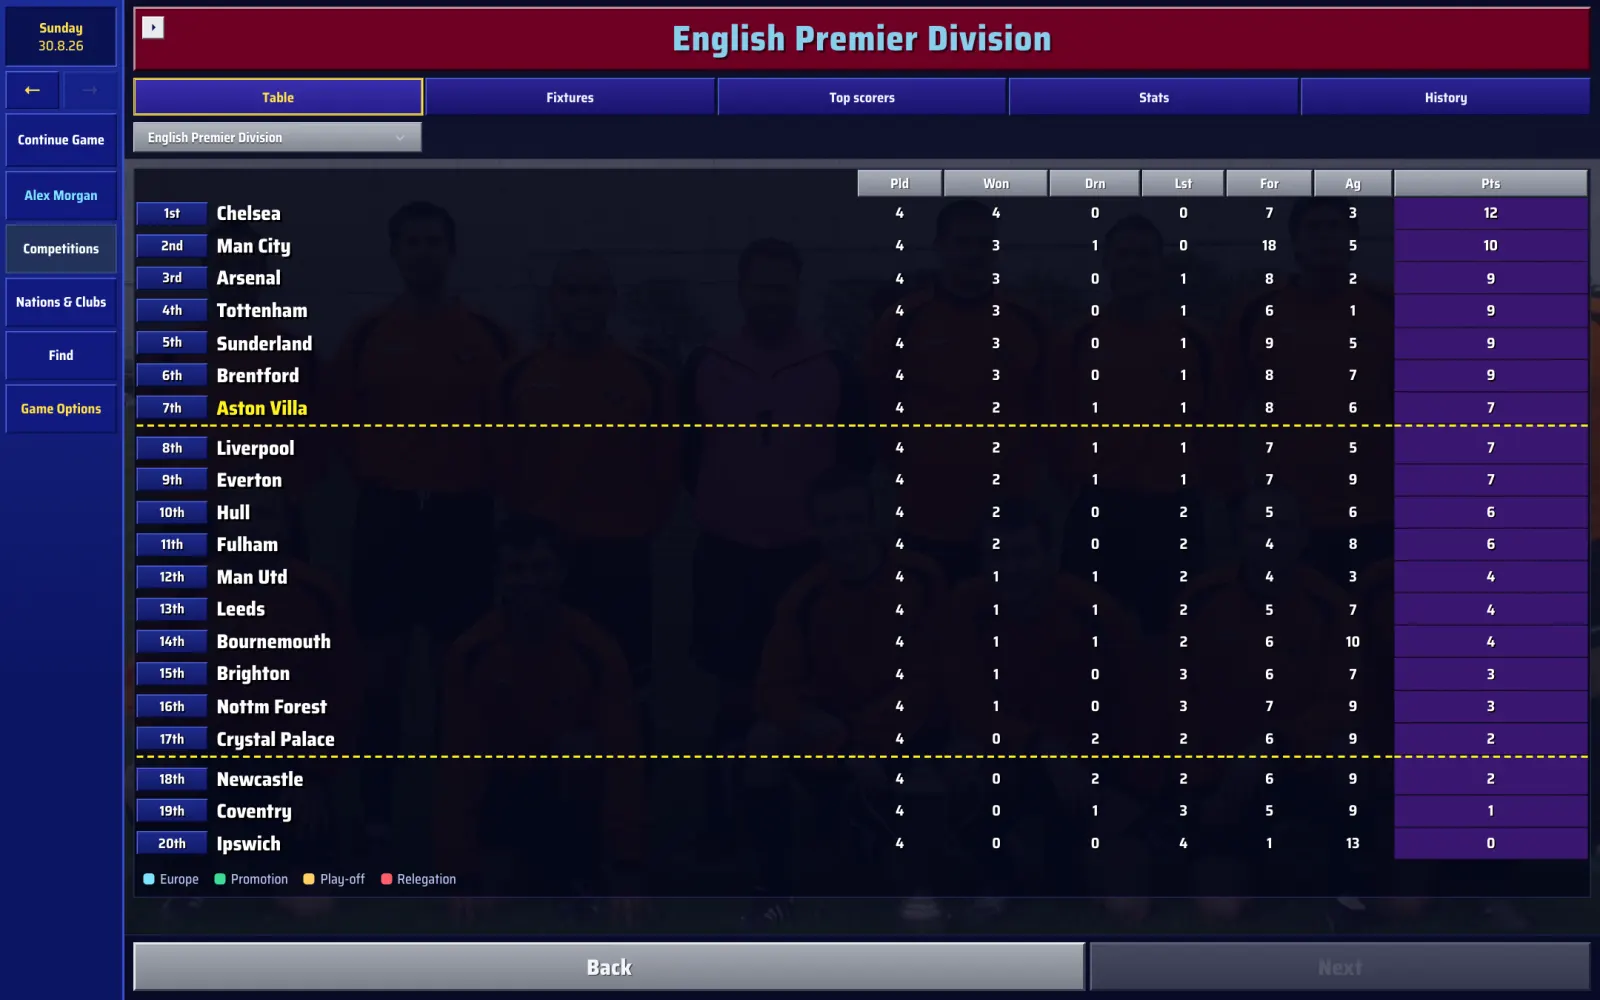
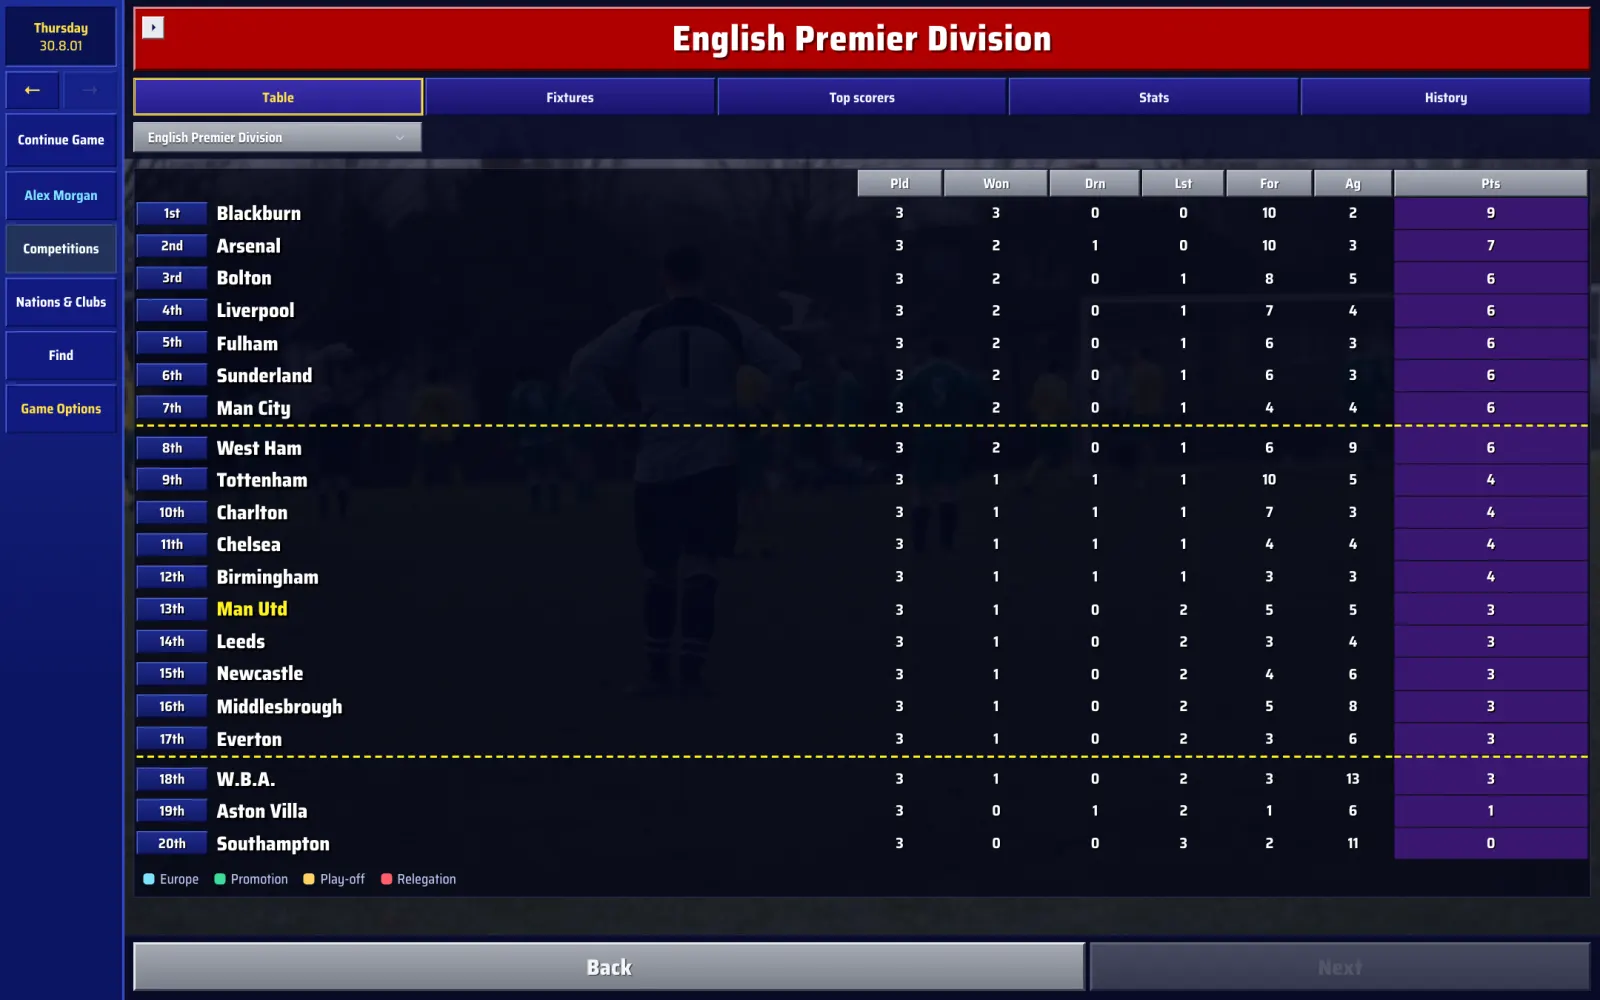
Landingssiden: klassisk tema med 2001/02-databasen og i heroen
- De klassiske skærmbilleder (To udseender og Se det selv) bruger nu den
  originale 2001/02-database med Manchester United og David Beckhams
  profil i stedet for 2026/27 med Aston Villa.
- Heroen ("The legend is back. Now in your browser.") viser den klassiske
  ligatabel fra 2001/02 bag det moderne kamprapport-billede (i stedet for
  den animerede bane).

diff --git a/src/ui/Landing.tsx b/src/ui/Landing.tsx
@@ -107,28 +107,6 @@ export function Frame({ src, alt, className = '', onOpen }: { src: string; alt: 
   );
 }
 
-/** Animeret bane i hero: spillere der bevæger sig og en bold der skydes i mål */
-function Pitch() {
-  return (
-    <svg className="lp-pitch" viewBox="0 0 400 260" aria-hidden="true">
-      <defs>
-        <linearGradient id="lpgrass" x1="0" x2="1">
-          <stop offset="0" stopColor="#0f5132" /><stop offset="1" stopColor="#14703f" />
-        </linearGradient>
-      </defs>
-      <rect x="0" y="0" width="400" height="260" rx="14" fill="url(#lpgrass)" />
-      {[...Array(8)].map((_, i) => <rect key={i} x={i * 50} y="0" width="25" height="260" fill="rgba(255,255,255,0.035)" />)}
-      <g stroke="rgba(255,255,255,0.55)" strokeWidth="1.6" fill="none">
-        <rect x="10" y="10" width="380" height="240" rx="4" /><line x1="200" y1="10" x2="200" y2="250" /><circle cx="200" cy="130" r="32" />
-        <rect x="10" y="70" width="52" height="120" /><rect x="338" y="70" width="52" height="120" />
-      </g>
-      {[[60, 130], [110, 70], [110, 190], [150, 130], [170, 90], [175, 175]].map(([x, y], i) => <circle key={`h${i}`} className={`lp-dot h d${i}`} cx={x} cy={y} r="7" />)}
-      {[[340, 130], [290, 80], [290, 180], [250, 130], [235, 60], [230, 205]].map(([x, y], i) => <circle key={`a${i}`} className={`lp-dot a d${i}`} cx={x} cy={y} r="7" />)}
-      <circle className="lp-ball" cx="200" cy="130" r="4.5" />
-    </svg>
-  );
-}
-
 const TICKER = ['tick1', 'tick2', 'tick3', 'tick4', 'tick5', 'tick6', 'tick7', 'tick8'];
 const FEATURES: [string, string][] = [
   ['⚽', 'engine'], ['🌍', 'players'], ['🔎', 'scouting'], ['🎙', 'press'], ['💸', 'transfers'],
@@ -207,7 +185,8 @@ export function Landing({ onPlay, onLang, onDraft }: { onPlay: () => void; onLan
             </ul>
           </div>
           <div className="lp-hero-visual reveal">
-            <Pitch />
+            {/* det klassiske CM 01/02-tema (2001/02-databasen) bag det moderne kamprapport-billede */}
+            <Frame src={img('classic-table')} alt={t('land.alt.classic')} className="lp-hero-classic" onOpen={open} />
             <Frame src={img('report')} alt={t('land.alt.report')} className="lp-hero-main" onOpen={open} />
             <div className="lp-phone"><img src={img('mobile')} alt={t('land.alt.mobile')} loading="lazy" /></div>
             <div className="lp-float goal">⚽ {t('land.floatGoal')}</div>

diff --git a/src/i18n/da.ts b/src/i18n/da.ts
@@ -980,6 +980,7 @@ export const da: Record<string, string> = {
   'land.f.mobile.title': 'Overalt, også offline', 'land.f.mobile.text': 'Spil på computer, tablet eller mobil. Installer som app, og fortsæt hvor du slap.',
   'land.nav.looks': 'Udseende', 'land.looks.kicker': 'To udseender', 'land.looks.title': 'Moderne – eller præcis som i 2001', 'land.looks.sub': 'Samme spil, samme database. Vælg et moderne, mobilvenligt udseende eller det klassiske CM 01/02-look med faner, Tilbage/Frem og de gamle baggrundsbilleder.', 'land.looks.modern': 'Moderne', 'land.looks.classic': 'Klassisk CM 01/02', 'land.looks.s.squad': 'Truppen', 'land.looks.s.player': 'Spillerprofil', 'land.looks.s.table': 'Ligatabel', 'land.looks.modern.text': 'Lyst eller mørkt tema i klubbens farver, sidemenu, store tal og grafer. Bygget til både mobil, tablet og computer.', 'land.looks.classic.text': 'Klubfarvet titelbjælke, faner, grønne rullemenuer og spillerne i to kolonner – som du husker det. Med skiftende baggrundsfotos og pixel-look.', 'land.looks.play.modern': 'Spil moderne', 'land.looks.play.classic': 'Spil klassisk', 'land.looks.note': 'Du kan altid skifte udseende i Indstillinger – også midt i en karriere.',
   'land.s.classic.kicker': 'Klassisk CM 01/02', 'land.s.classic.title': 'Som du husker det', 'land.s.classic.text': 'Slå det klassiske tema til, og spillet ser ud og føles som Championship Manager 01/02 – med faner, Tilbage/Frem og de gamle baggrundsfotos.', 'land.s.classic.b1': 'Truppen i to kolonner med udtagelse ved træk og slip', 'land.s.classic.b2': 'Spillerprofil med alle 1–20-egenskaber og karrierehistorik', 'land.s.classic.b3': 'Grønne rullemenuer, Find og Spiller- & stabssøgning',
+  'land.alt.classic': 'Det klassiske CM 01/02-tema med 2001/02-databasen',
   'land.screensTitle': 'Se det selv', 'land.screensSub': 'Rigtige skærmbilleder fra spillet. Klik for at forstørre.',
   'land.s.matchday.kicker': 'Kampdag', 'land.s.matchday.title': 'Følg hver chance', 'land.s.matchday.text': 'Se kampen live med kommentarer og statistik, og forstå bagefter præcis hvorfor du vandt eller tabte.',
   'land.s.matchday.b1': 'xG, skudkort, momentum og heatmaps', 'land.s.matchday.b2': 'Assistentens analyse efter hver kamp', 'land.s.matchday.b3': 'Pause, taktikskift og udskiftninger med tastaturet',

diff --git a/src/i18n/en.ts b/src/i18n/en.ts
@@ -954,6 +954,7 @@ export const en: Record<string, string> = {
   'land.f.mobile.title': 'Anywhere, even offline', 'land.f.mobile.text': 'Play on desktop, tablet or phone. Install it as an app and carry on where you left off.',
   'land.nav.looks': 'Looks', 'land.looks.kicker': 'Two looks', 'land.looks.title': 'Modern – or exactly like 2001', 'land.looks.sub': 'Same game, same database. Pick a modern, mobile-friendly look or the classic CM 01/02 style with tabs, Back/Next and the old background photos.', 'land.looks.modern': 'Modern', 'land.looks.classic': 'Classic CM 01/02', 'land.looks.s.squad': 'Squad', 'land.looks.s.player': 'Player profile', 'land.looks.s.table': 'League table', 'land.looks.modern.text': 'Light or dark theme in your club colours, side menu, big numbers and charts. Built for phone, tablet and desktop.', 'land.looks.classic.text': 'Club-coloured title bar, tabs, green drop-down menus and the squad in two columns – just as you remember it. With rotating background photos and pixel look.', 'land.looks.play.modern': 'Play modern', 'land.looks.play.classic': 'Play classic', 'land.looks.note': 'You can switch look any time in Options – even in the middle of a career.',
   'land.s.classic.kicker': 'Classic CM 01/02', 'land.s.classic.title': 'Just as you remember it', 'land.s.classic.text': 'Switch on the classic theme and the game looks and feels like Championship Manager 01/02 – with tabs, Back/Next and the old background photos.', 'land.s.classic.b1': 'The squad in two columns with drag-and-drop selection', 'land.s.classic.b2': 'Player profile with every 1–20 attribute and playing career', 'land.s.classic.b3': 'Green drop-down menus, Find and Player & Staff Search',
+  'land.alt.classic': 'The classic CM 01/02 theme with the 2001/02 database',
   'land.screensTitle': 'See for yourself', 'land.screensSub': 'Real screenshots from the game. Click to enlarge.',
   'land.s.matchday.kicker': 'Matchday', 'land.s.matchday.title': 'Follow every chance', 'land.s.matchday.text': 'Watch live with commentary and stats, and understand exactly why you won or lost.',
   'land.s.matchday.b1': 'xG, shot maps, momentum and heatmaps', 'land.s.matchday.b2': 'Your assistant\'s analysis after every match', 'land.s.matchday.b3': 'Pause, change tactics and make subs with the keyboard',

diff --git a/src/ui/landing.css b/src/ui/landing.css
@@ -76,7 +76,8 @@
   55% { transform: translate(90px, 10px); } 72% { transform: translate(140px, -5px); } 80% { transform: translate(186px, 0); }
   86% { transform: translate(186px, 0); opacity: 1; } 92% { opacity: 0; } 93% { transform: translate(0, 0); opacity: 0; } 100% { opacity: 1; }
 }
-.lp-hero-main { position: absolute; left: 0; top: 110px; width: 82%; }
+.lp-hero-main { position: absolute; left: 0; top: 110px; width: 82%; z-index: 1; }
+.lp-hero-classic { position: absolute; width: 74%; right: 0; top: 0; transform: rotate(3deg); opacity: 0.97; }
 .lp-phone { position: absolute; right: 2%; bottom: -10px; width: 26%; border-radius: 22px; padding: 6px; background: #05070e; border: 1px solid rgba(255, 255, 255, 0.14); box-shadow: 0 30px 60px -18px rgba(0, 0, 0, 0.8); animation: lp-bob 6s ease-in-out infinite; }
 .lp-phone img { width: 100%; display: block; border-radius: 17px; }
 @keyframes lp-bob { 50% { transform: translateY(-10px); } }
@@ -183,6 +184,7 @@
   .lp-show.flip .lp-show-text { order: 0; }
   .lp-hero-visual { min-height: 0; padding-bottom: 40px; }
   .lp-pitch { position: relative; width: 100%; transform: none; }
+  .lp-hero-classic { position: relative; width: 100%; transform: none; }
   .lp-hero-main { position: relative; top: 0; width: 100%; margin-top: -40px; }
   .lp-phone { width: 34%; right: -2%; bottom: -6px; }
   .lp-float.goal { top: 10px; left: 4px; }
